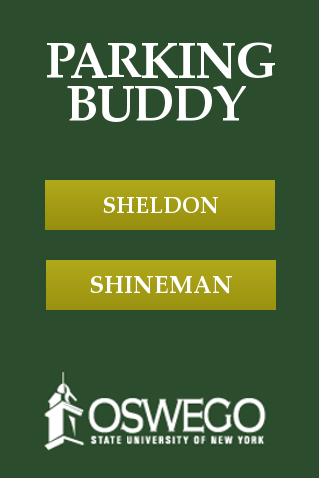
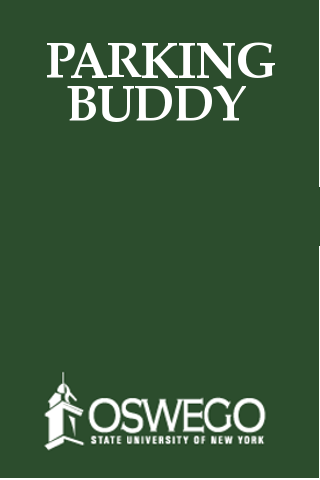
Updated how button taps are detected in main menu state

Changed region(s): [[0.125, 0.5312, 0.875, 0.6562], [0.125, 0.375, 0.875, 0.5]]

diff --git a/pbapp/core/src/main/java/com/pbapp/core/MainMenuState.java b/pbapp/core/src/main/java/com/pbapp/core/MainMenuState.java
@@ -2,6 +2,7 @@ package com.pbapp.core;
 import com.badlogic.gdx.Gdx;
 import com.badlogic.gdx.graphics.Texture;
 import com.badlogic.gdx.graphics.g2d.SpriteBatch;
+import com.badlogic.gdx.math.Vector2;
 
 
 /**
@@ -9,36 +10,33 @@ import com.badlogic.gdx.graphics.g2d.SpriteBatch;
  */
 public class MainMenuState extends State {
     
+    Button ShinemanButton;
+    Button SheldonButton;
+    
     private Texture background;
     public MainMenuState(GuiStateManager gsm) {
         super(gsm);
         background = new Texture("TitleScreen.png");
+        ShinemanButton = new Button("ShinemanButton.png", new Vector2(135,520), new Vector2(230,50));
+        SheldonButton = new Button("SheldonButton.png", new Vector2(135,380), new Vector2(230,50));
     }
 
     @Override
     public void handleInput() {
         if(Gdx.input.justTouched()) {
-           
-           boolean withinSheldonX = (Gdx.input.getX() >= 70) && (Gdx.input.getX() <= 430);
-           boolean withinSheldonY = (Gdx.input.getY() <= 380) && (Gdx.input.getY() >= 300);
-           boolean withinShinemanX = (Gdx.input.getX() >= 70) && (Gdx.input.getX() <= 430);
-           boolean withinShinemanY = (Gdx.input.getY() <= 520) && (Gdx.input.getY() >= 430);
-           
-            if (withinSheldonX && withinSheldonY) {
-                // Sheldon button clicked, proceed to Sheldon Map
-                this.dispose();
-                gsm.pop();
-                SheldonMapState sd = new SheldonMapState(gsm);
-                gsm.push(sd);
+            /*
+            boolean withinSheldonX = (Gdx.input.getX() >= 70) && (Gdx.input.getX() <= 430);
+            boolean withinSheldonY = (Gdx.input.getY() <= 380) && (Gdx.input.getY() >= 300);
+            boolean withinShinemanX = (Gdx.input.getX() >= 70) && (Gdx.input.getX() <= 430);
+            boolean withinShinemanY = (Gdx.input.getY() <= 520) && (Gdx.input.getY() >= 430);
+            */
+            if(ShinemanButton.wasTouched(Gdx.input.getX(), Gdx.input.getY())){
+                gsm.setState(new ShinemanMapState(gsm));
+            }
+            if(SheldonButton.wasTouched(Gdx.input.getX(), Gdx.input.getY())){
+                gsm.setState(new SheldonMapState(gsm));
             }
             
-            if (withinShinemanX && withinShinemanY) {
-                // Shineman button clicked, proceed to Shineman Map
-                this.dispose();
-                gsm.pop();
-                ShinemanMapState sm = new ShinemanMapState(gsm);
-                gsm.push(sm);
-            }
         }
     }
 
@@ -51,11 +49,15 @@ public class MainMenuState extends State {
     public void render(SpriteBatch sb) {
         sb.begin();
         sb.draw(background, 0, 0, PBApp.width, PBApp.height);
+        sb.draw(ShinemanButton.getTexture(), ShinemanButton.getXpos(), ShinemanButton.getYpos());
+        sb.draw(SheldonButton.getTexture(), SheldonButton.getXpos(), SheldonButton.getYpos());
         sb.end();
     }
     public void dispose(){
         //remember to add all drawn objects to this method.
         background.dispose();
+        ShinemanButton.getTexture().dispose();
+        SheldonButton.getTexture().dispose();
     }
     
 }
